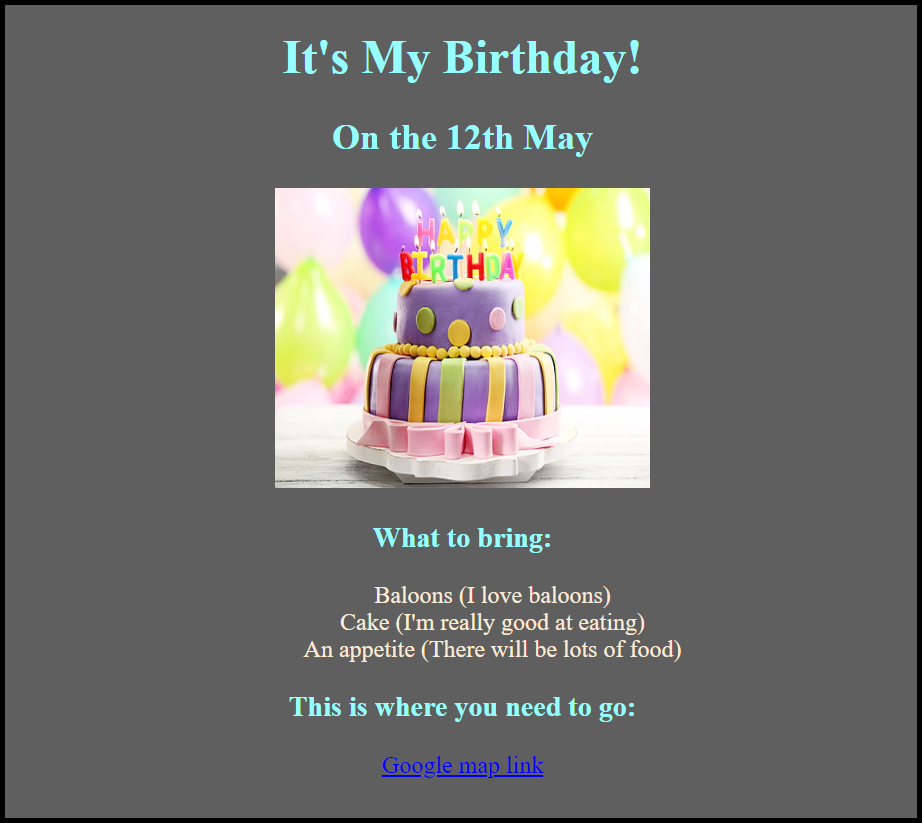
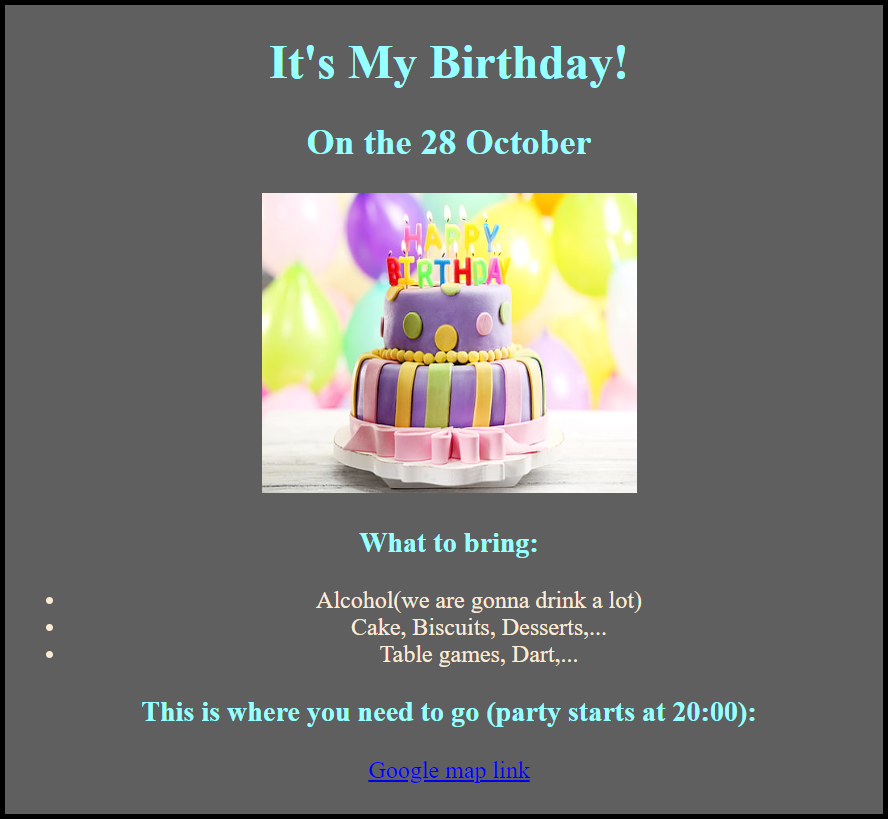
Add files via upload

diff --git a/public/Birthday Invite Project.html b/public/Birthday Invite Project.html
@@ -11,17 +11,17 @@
 
   <body>
     <h1>It's My Birthday!</h1>
-    <h2>On the 12th May</h2>
+    <h2>On the 28 October</h2>
 
     <img src="https://raw.githubusercontent.com/appbrewery/webdev/main/birthday-cake3.4.jpeg" height="200" width="250" alt="purple birthday cake with candles" />
     <h3>What to bring:</h3>
     <ul>
-      <li>Baloons (I love baloons)</li>
-      <li>Cake (I'm really good at eating)</li>
-      <li>An appetite (There will be lots of food)</li>
+      <li>Alcohol(we are gonna drink a lot)</li>
+      <li>Cake, Biscuits, Desserts,...</li>
+      <li>Table games, Dart,...</li>
     </ul>
 
-    <h3>This is where you need to go:</h3>
+    <h3>This is where you need to go (party starts at 20:00):</h3>
     <a href="https://www.google.com/maps/@35.7040744,139.5577317,3a,75y,289.6h,87.01t,0.72r/data=!3m6!1e1!3m4!1sgT28ssf0BB2LxZ63JNcL1w!2e0!7i13312!8i6656">Google map link
     </a>
     
